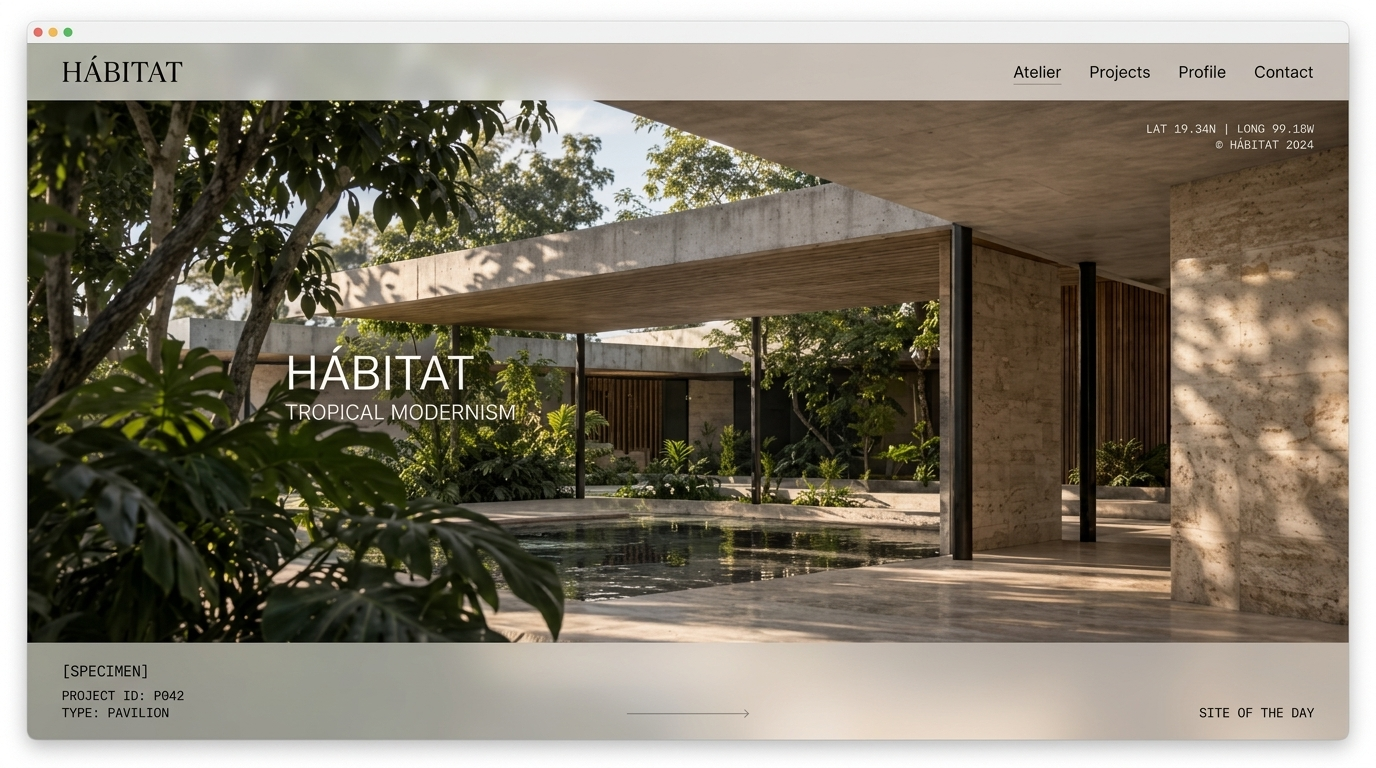
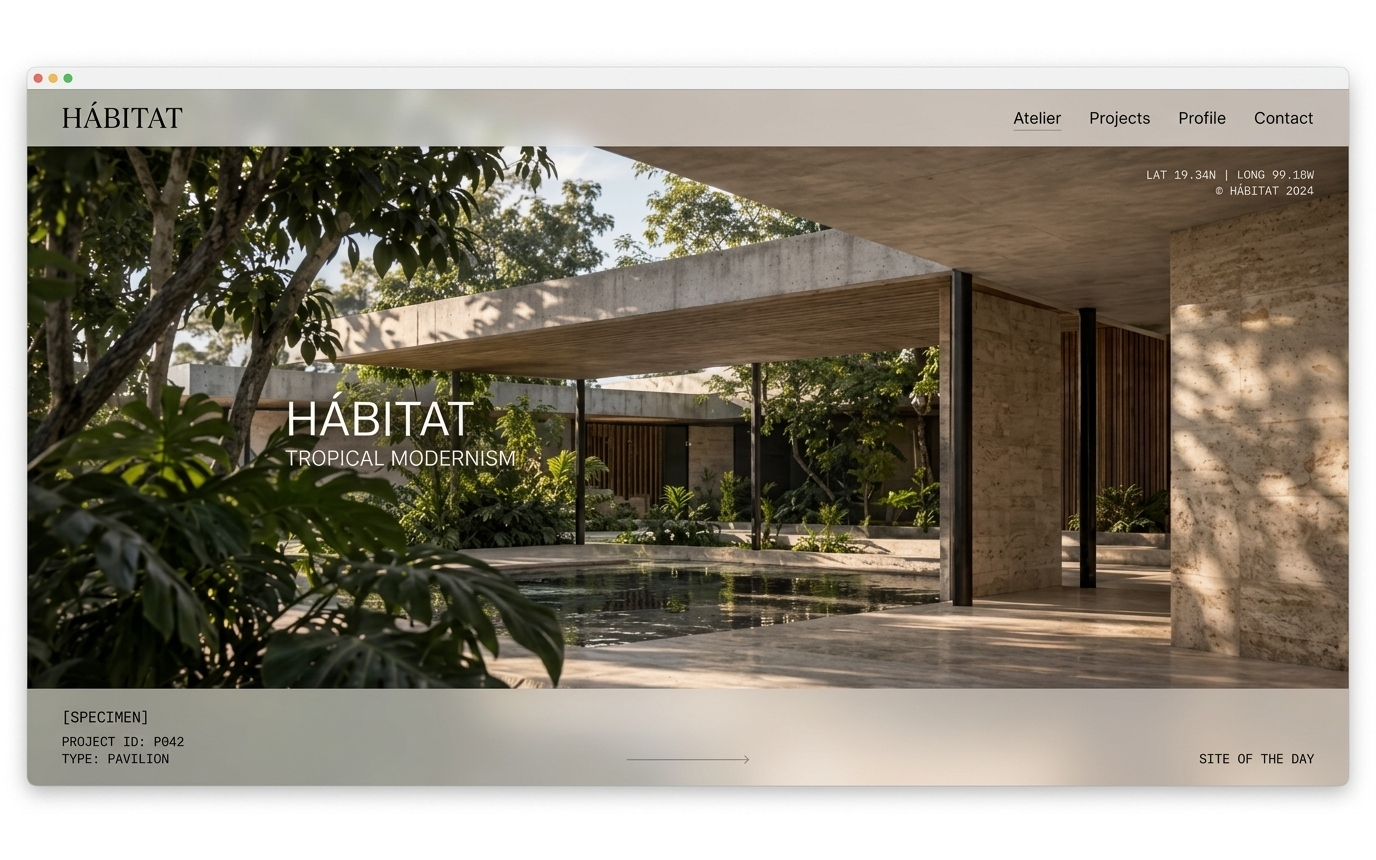
fix(projects): adjust Habitat mockup to exact 16:10 aspect ratio and object-contain

diff --git a/src/components/ui/PlaceholderImage.tsx b/src/components/ui/PlaceholderImage.tsx
@@ -26,7 +26,7 @@ export const PlaceholderImage: React.FC<PlaceholderImageProps> = ({
         <img
           src={src}
           alt={title}
-          className="absolute inset-0 w-full h-full object-cover"
+          className="absolute inset-0 w-full h-full object-contain rounded-xl"
           decoding="async"
           loading="lazy"
         />
